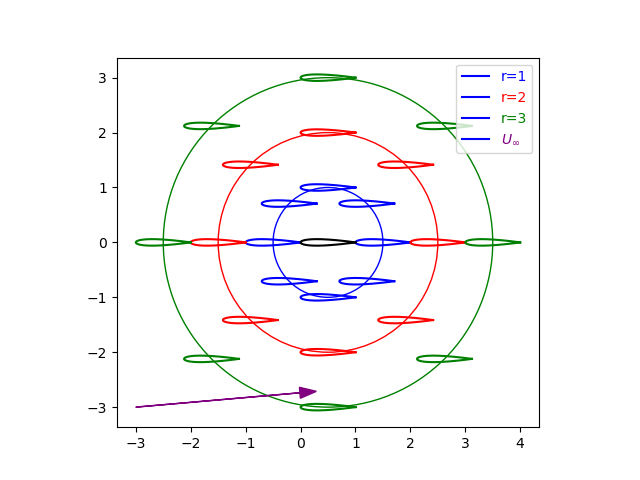
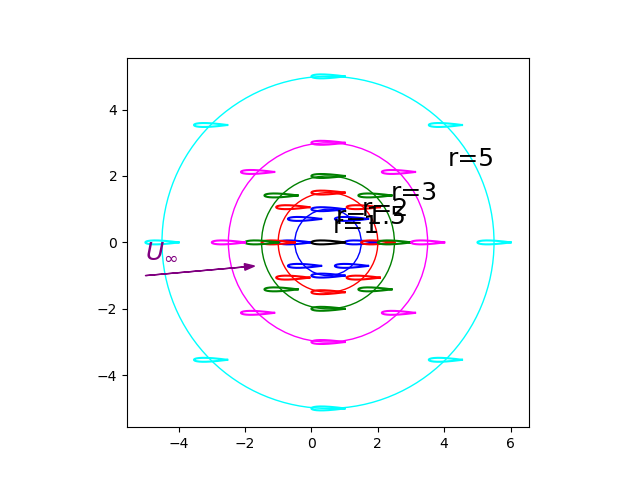
いったんかんせいかなあ

diff --git a/illustMakerForGradThesis.py b/illustMakerForGradThesis.py
@@ -7,11 +7,10 @@ import math
 wing_shape = np.loadtxt('naca0012_sharpTE.dat')
 
 # 半径のリスト
-radii = [1, 2, 3]  # この半径のリストを使用者が提供する
+radii = [1, 1.5, 2, 3, 5]  # この半径のリストを使用者が提供する
 
 # 色のリスト（半径ごとに異なる色を割り当てる）
-colors = ['blue', 'red', 'green']
-labels = []
+colors = ['blue', 'red', 'green', 'magenta', 'cyan']
 
 # 全ての座標に翼を配置する関数
 def plot_wing_at_coordinates(coordinates, color):
@@ -28,12 +27,13 @@ for radius, color in zip(radii, colors):
     circle_points = calculate_circle_points(radius)
     
     # 翼を配置（色を半径ごとに変更）
-    plot_wing_at_coordinates(circle_points, color,label=label)
-    labels.append(label)
+    plot_wing_at_coordinates(circle_points, color)
     
     # 円を描画（色を半径ごとに変更）
     circle = plt.Circle((0.5, 0), radius, color=color, fill=False)
     plt.gca().add_artist(circle)
+
+    plt.text(0.5+(radius)*math.cos(30/180*math.pi), radius*math.sin(30/180*math.pi), f'r={radius}', horizontalalignment='center', fontsize=18, verticalalignment='center')
 
 # 原点にも翼を配置（原点の翼の色は最初の色を使用）
 origin_color = 'black'
@@ -42,17 +42,14 @@ plot_wing_at_coordinates([(0, 0)], origin_color)
 # 角度5度の矢印を描画（左下から伸びる）
 arrow_angle = math.radians(5)  # 角度をラジアンに変換
 arrow_length = 3  # 矢印の長さ
-plt.arrow(-3, -3, arrow_length * math.cos(arrow_angle), arrow_length * math.sin(arrow_angle), head_width=0.2, head_length=0.3, fc='purple', ec='purple')
+plt.arrow(-5, -1, arrow_length * math.cos(arrow_angle), arrow_length * math.sin(arrow_angle), head_width=0.2, head_length=0.3, fc='purple', ec='purple')
 
-# ラベルの追加
-# labels = [f'r={radius}' for radius in radii] + [r'$U_\infty$']
-
-# レジェンドを追加
-plt.legend(labels, loc='upper right')
+# 矢印に対するラベルを追加（TeX表記）
+plt.text(-5, -0.5,   r'$U_\infty$', fontsize=18, color='purple')
 
 # プロット範囲の設定
 # plt.xlim(-7, )  # x軸の範囲
-plt.ylim(-5, 5)  # y軸の範囲
+# plt.ylim(-5, 5)  # y軸の範囲
 
 # グラフの設定
 plt.axis('equal')
